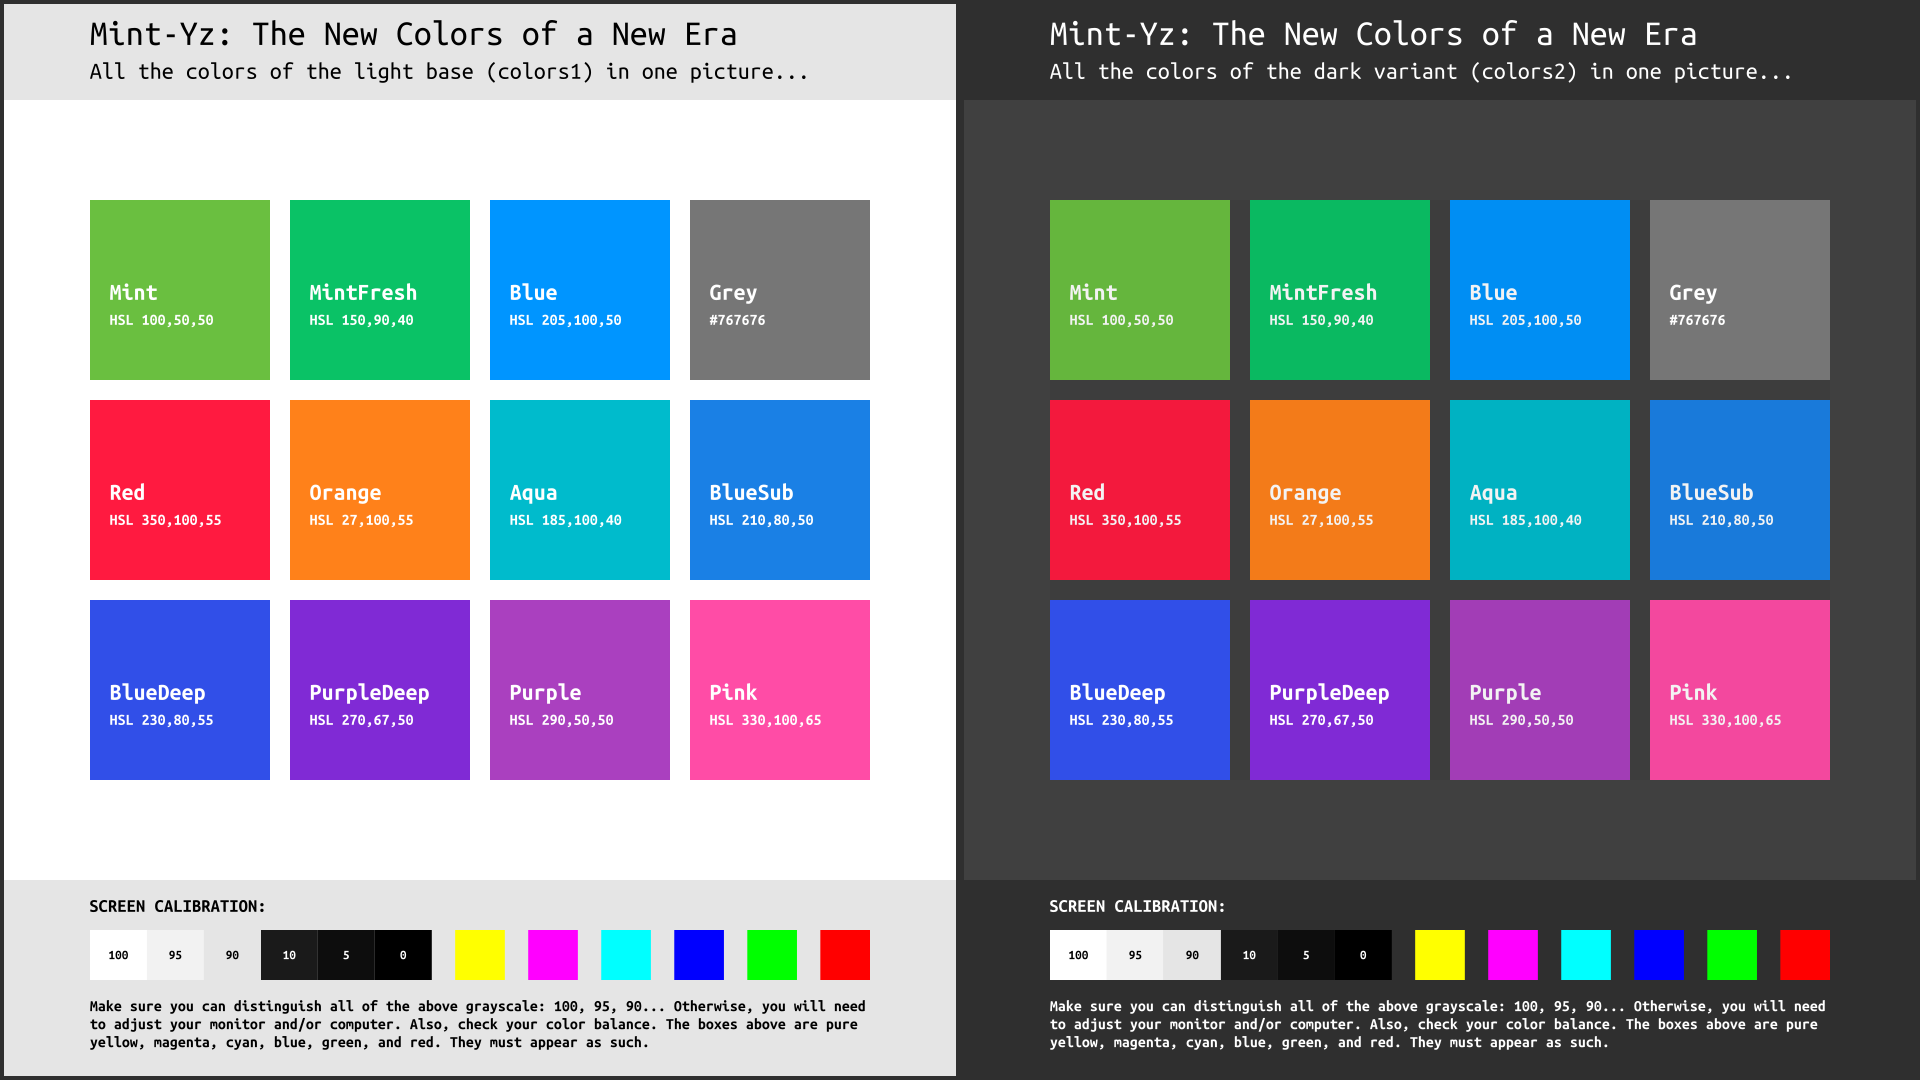
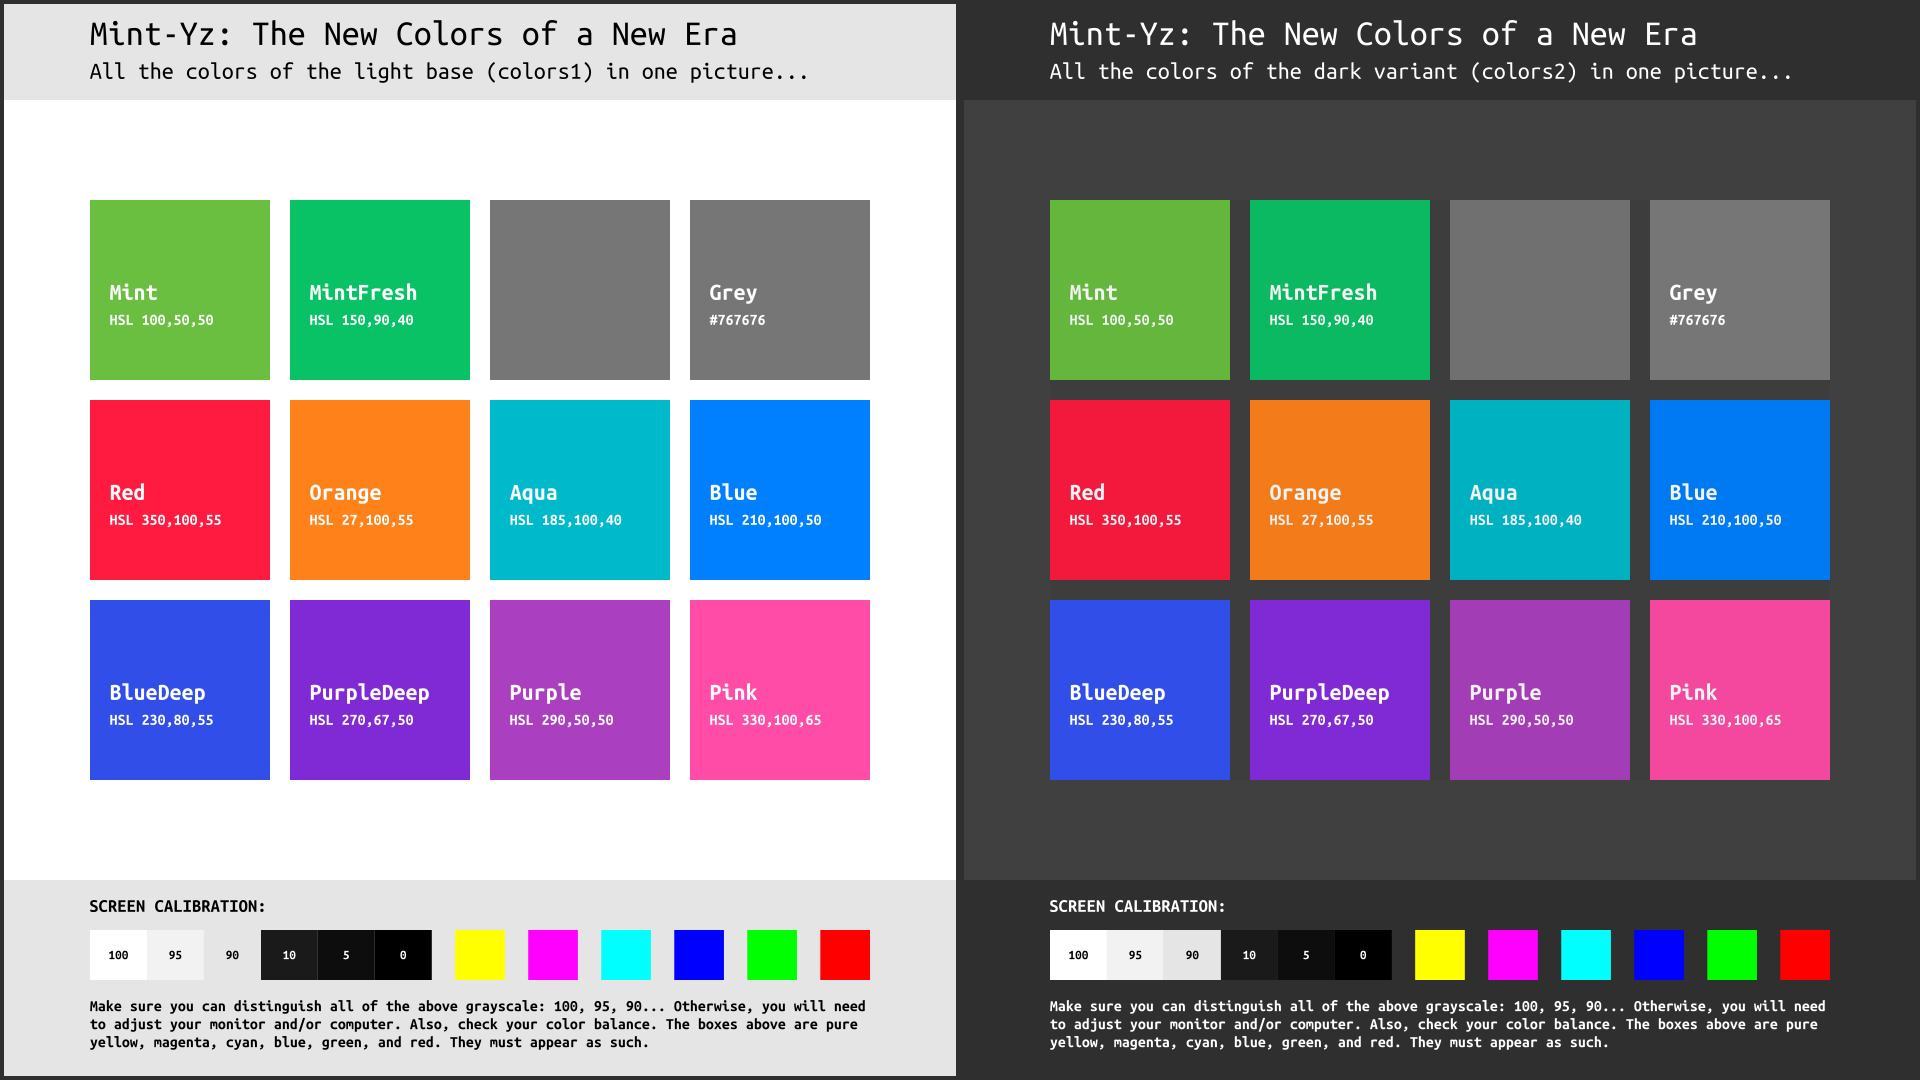
Color update
modified:   Mint-Y-Colors/Mint-Y-Variations-3.png
	modified:   Mint-Y-Colors/Mint-Y-Variations-3.svg
	modified:   Mint-Y-Colors/messages-colors.svg
	modified:   constants.py
	modified:   src/Mint-Y/gtk-3.0/gtk-dark.css
	modified:   src/Mint-Y/gtk-3.0/gtk-darker.css
	modified:   src/Mint-Y/gtk-3.0/gtk.css
	modified:   src/Mint-Y/gtk-3.0/sass/_colors.scss

diff --git a/src/Mint-Y/gtk-3.0/gtk-dark.css b/src/Mint-Y/gtk-3.0/gtk-dark.css
@@ -634,7 +634,7 @@ modelbutton.flat arrow.right {
 
 button:link, button:visited,
 *:link {
-  color: #1A7EE5; }
+  color: #007EFF; }
   button:visited,
   *:link:visited {
     color: #AA40BF; }
@@ -642,12 +642,12 @@ button:link, button:visited,
       color: #d2dcc8; }
   button:hover:link, button:hover:visited,
   *:link:hover {
-    color: #4898ea; }
+    color: #3398ff; }
     *:selected button:hover:link, *:selected button:hover:visited, *:selected *:link:hover {
       color: #f4f6f1; }
   button:active:link, button:active:visited,
   *:link:active {
-    color: #1A7EE5; }
+    color: #007EFF; }
     *:selected button:active:link, *:selected button:active:visited, *:selected *:link:active {
       color: #e9eee4; }
   infobar.info *:link, infobar.question *:link, infobar.warning *:link, infobar.error *:link, headerbar.selection-mode .subtitle:link,

diff --git a/src/Mint-Y/gtk-3.0/gtk-darker.css b/src/Mint-Y/gtk-3.0/gtk-darker.css
@@ -633,7 +633,7 @@ modelbutton.flat arrow.right {
 
 button:link, button:visited,
 *:link {
-  color: #1A7EE5; }
+  color: #007EFF; }
   button:visited,
   *:link:visited {
     color: #AA40BF; }
@@ -641,12 +641,12 @@ button:link, button:visited,
       color: #d3e1c7; }
   button:hover:link, button:hover:visited,
   *:link:hover {
-    color: #4898ea; }
+    color: #3398ff; }
     *:selected button:hover:link, *:selected button:hover:visited, *:selected *:link:hover {
       color: #f4f7f1; }
   button:active:link, button:active:visited,
   *:link:active {
-    color: #1A7EE5; }
+    color: #007EFF; }
     *:selected button:active:link, *:selected button:active:visited, *:selected *:link:active {
       color: #e9f0e3; }
   infobar.info *:link, infobar.question *:link, infobar.warning *:link, infobar.error *:link, headerbar.selection-mode .subtitle:link,

diff --git a/src/Mint-Y/gtk-3.0/gtk.css b/src/Mint-Y/gtk-3.0/gtk.css
@@ -633,7 +633,7 @@ modelbutton.flat arrow.right {
 
 button:link, button:visited,
 *:link {
-  color: #1A7EE5; }
+  color: #007EFF; }
   button:visited,
   *:link:visited {
     color: #AA40BF; }
@@ -641,12 +641,12 @@ button:link, button:visited,
       color: #d3e1c7; }
   button:hover:link, button:hover:visited,
   *:link:hover {
-    color: #4898ea; }
+    color: #3398ff; }
     *:selected button:hover:link, *:selected button:hover:visited, *:selected *:link:hover {
       color: #f4f7f1; }
   button:active:link, button:active:visited,
   *:link:active {
-    color: #1A7EE5; }
+    color: #007EFF; }
     *:selected button:active:link, *:selected button:active:visited, *:selected *:link:active {
       color: #e9f0e3; }
   infobar.info *:link, infobar.question *:link, infobar.warning *:link, infobar.error *:link, headerbar.selection-mode .subtitle:link,

diff --git a/src/Mint-Y/gtk-3.0/sass/_colors.scss b/src/Mint-Y/gtk-3.0/sass/_colors.scss
@@ -13,7 +13,7 @@ $selected_borders_color: darken($selected_bg_color, 20%);
 $borders_color: if($variant =='light', #BDBDBD, darken($bg_color,6%));
 $separator_color: if($variant == 'light', #DFDFDF, darken($bg_color, 6%));
 
-$link_color: #1A7EE5;
+$link_color: #007EFF;
 $link_visited_color: #AA40BF;
 //___
 $selection_mode_bg: $selected_bg_color;

diff --git a/constants.py b/constants.py
@@ -28,11 +28,6 @@ y_hex_colors2["MintFresh"] = "#0AB961"
 y_hex_colors3["MintFresh"] = "#3BCE85"
 y_hex_colors4["MintFresh"] = "#078848"
 
-y_hex_colors1["Blue"] = "#0095FF"
-y_hex_colors2["Blue"] = "#008EF3"
-y_hex_colors3["Blue"] = "#33AAFF"
-y_hex_colors4["Blue"] = "#0069B3"
-
 y_hex_colors1["Grey"] = "#767676"
 y_hex_colors2["Grey"] = "#767676"
 y_hex_colors3["Grey"] = "#919191"
@@ -48,15 +43,15 @@ y_hex_colors2["Orange"] = "#F37B19"
 y_hex_colors3["Orange"] = "#FF9A48"
 y_hex_colors4["Orange"] = "#B35B12"
 
-y_hex_colors1["Aqua"] = "#00BBCC"
-y_hex_colors2["Aqua"] = "#00B2C2"
-y_hex_colors3["Aqua"] = "#33C9D6"
+y_hex_colors1["Aqua"] = "#00BACC"
+y_hex_colors2["Aqua"] = "#00B1C2"
+y_hex_colors3["Aqua"] = "#33C8D6"
 y_hex_colors4["Aqua"] = "#00838F"
 
-y_hex_colors1["BlueSub"] = "#1A80E5"
-y_hex_colors2["BlueSub"] = "#197ADA"
-y_hex_colors3["BlueSub"] = "#4899EA"
-y_hex_colors4["BlueSub"] = "#125AA1"
+y_hex_colors1["Blue"] = "#0080FF"
+y_hex_colors2["Blue"] = "#007AF3"
+y_hex_colors3["Blue"] = "#3399FF"
+y_hex_colors4["Blue"] = "#005AB3"
 
 y_hex_colors1["BlueDeep"] = "#314FE8"
 y_hex_colors2["BlueDeep"] = "#314FE8"
